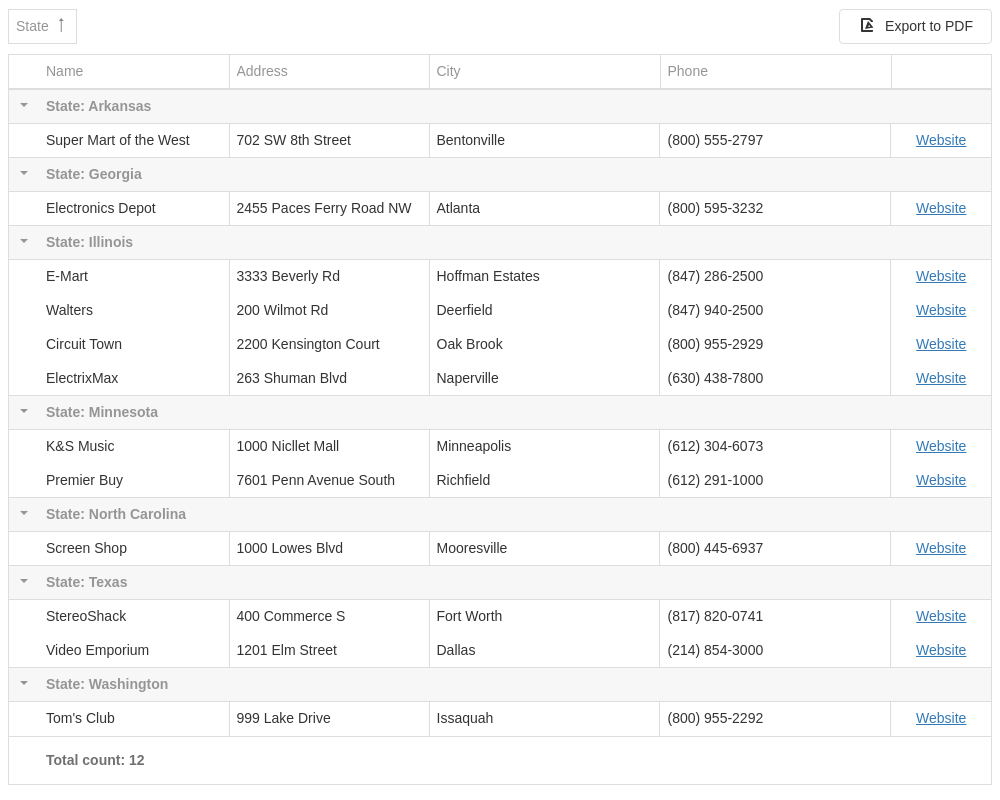
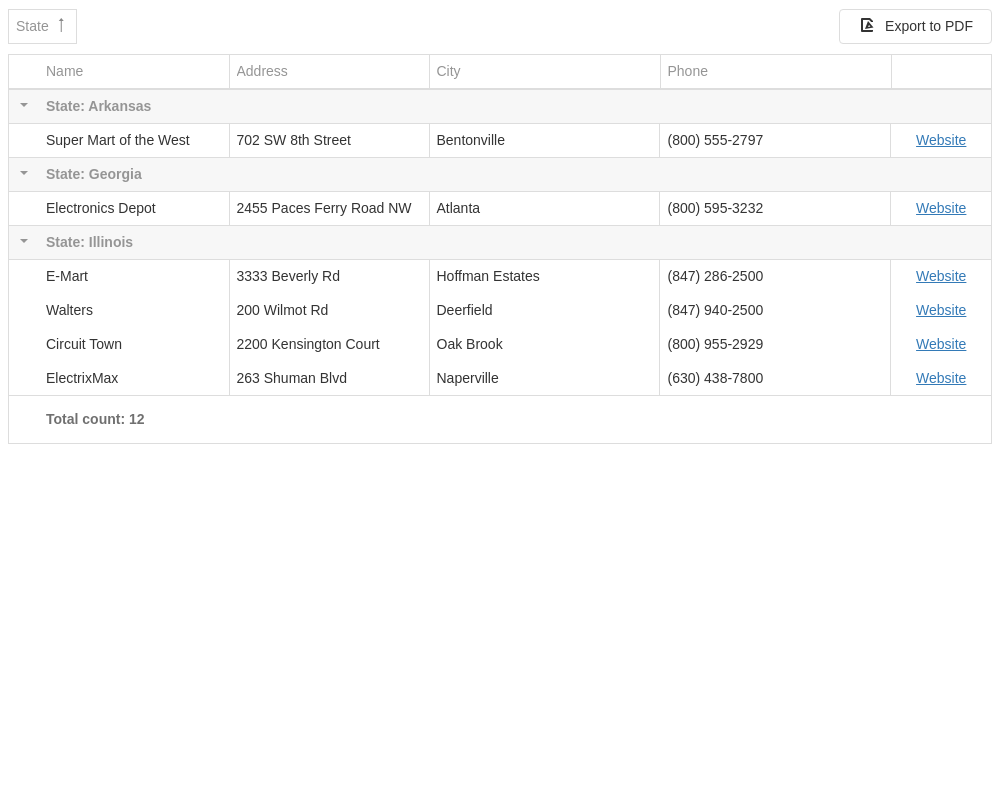
Fix lint issues and etalons

diff --git a/JSDemos/Demos/DataGrid/PDFCellCustomization/Vue/App.vue b/JSDemos/Demos/DataGrid/PDFCellCustomization/Vue/App.vue
@@ -48,7 +48,7 @@
         <DxTotalItem
           column="Name"
           summary-type="count"
-          display-format="Total count: {0} companies"
+          display-format="Total count: {0}"
         />
       </DxSummary>
 
@@ -75,9 +75,12 @@ import {
   DxPaging,
   DxToolbar,
   DxItem,
+  DxSummary,
+  DxSortByGroupSummaryInfo,
+  DxTotalItem,
 } from 'devextreme-vue/data-grid';
 
-import { jsPDF } from 'jspdf';
+// import { jsPDF } from 'jspdf';
 import { exportDataGrid as exportDataGridToPdf } from 'devextreme/pdf_exporter';
 
 import service from './data.js';
@@ -94,6 +97,9 @@ export default {
     DxDataGrid,
     DxToolbar,
     DxItem,
+    DxSummary,
+    DxSortByGroupSummaryInfo,
+    DxTotalItem,
   },
   data() {
     return {
@@ -141,11 +147,20 @@ export default {
         doc.save('Companies.pdf');
       });
     },
+    phoneNumberFormat(value) {
+      const USNumber = value.match(/(\d{3})(\d{3})(\d{4})/);
+
+      return `(${USNumber[1]}) ${USNumber[2]}-${USNumber[3]}`;
+    },
   },
 };
 </script>
 
 <style scoped>
+#gridContainer {
+  height: 436px;
+}
+
 #exportButton {
   margin-bottom: 10px;
 }

diff --git a/JSDemos/Demos/DataGrid/PDFCellCustomization/React/styles.css b/JSDemos/Demos/DataGrid/PDFCellCustomization/React/styles.css
@@ -1,3 +1,7 @@
+#gridContainer {
+  height: 436px;
+}
+
 #exportButton {
   margin-bottom: 10px;
 }

diff --git a/JSDemos/Demos/DataGrid/PDFCellCustomization/jQuery/styles.css b/JSDemos/Demos/DataGrid/PDFCellCustomization/jQuery/styles.css
@@ -1,3 +1,7 @@
+#gridContainer {
+  height: 436px;
+}
+
 #exportButton {
   margin-bottom: 10px;
 }

diff --git a/NetCoreDemos/Controllers/DataGridController.cs b/NetCoreDemos/Controllers/DataGridController.cs
@@ -232,8 +232,8 @@ namespace DevExtreme.NETCore.Demos.Controllers {
 
         public ActionResult PDFExportImages() {
             return View();
-        }     
-      
+        }
+
         public ActionResult PDFExportMultipleGrids() {
             return View();
         }
